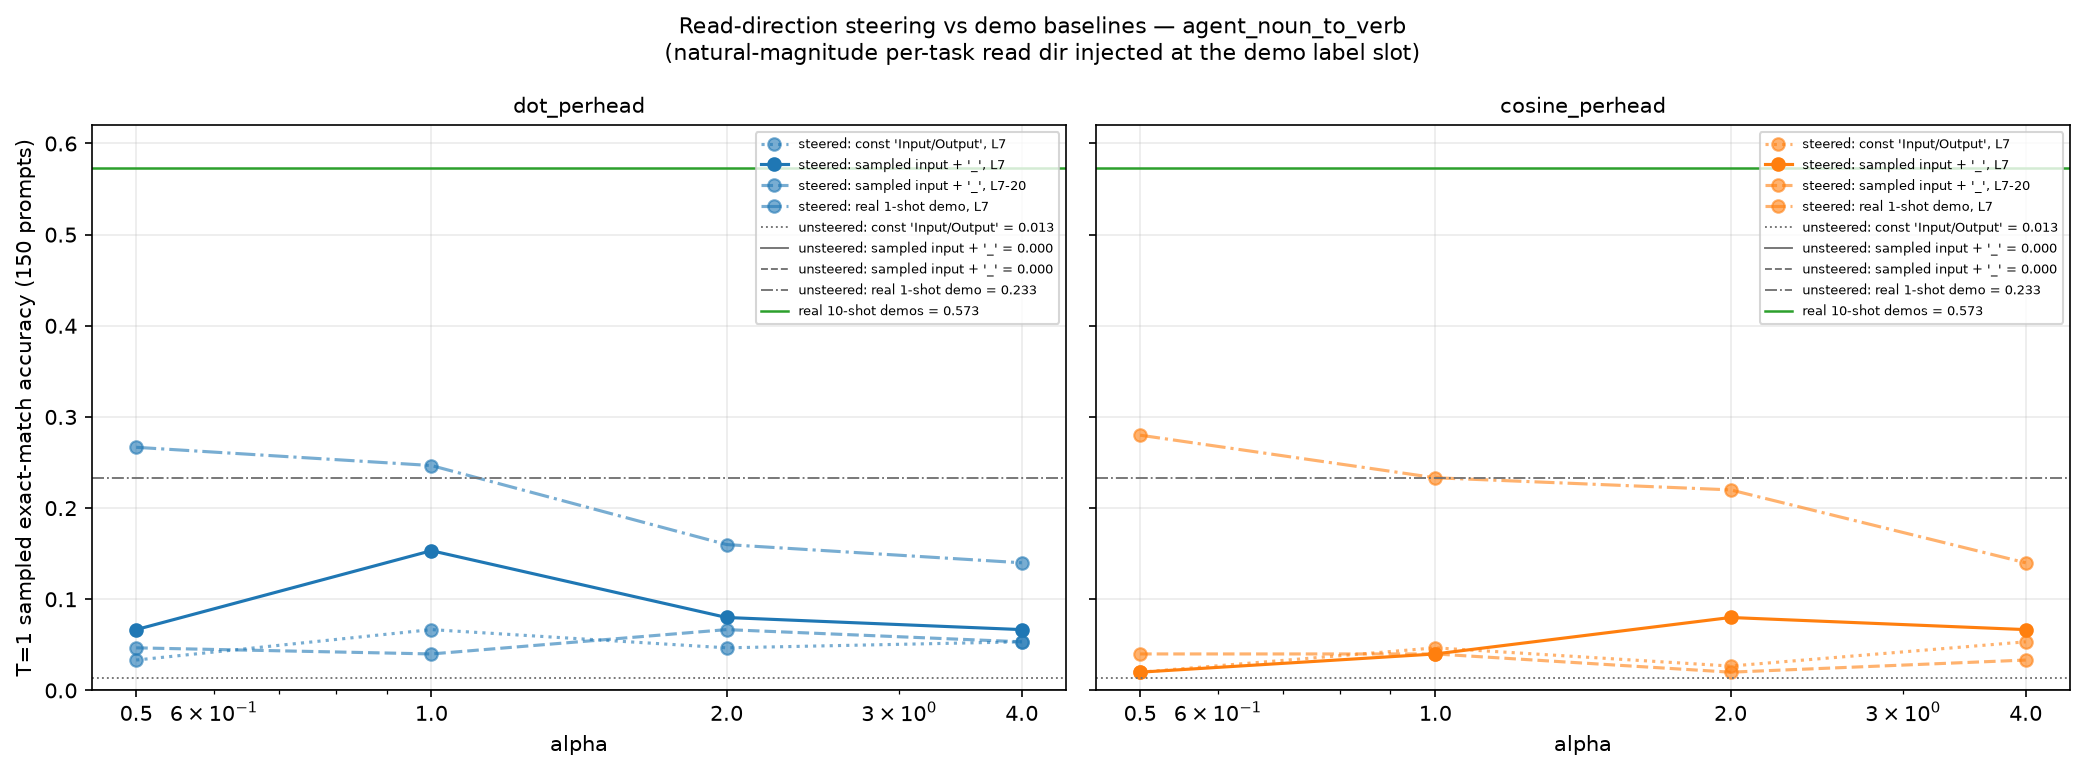
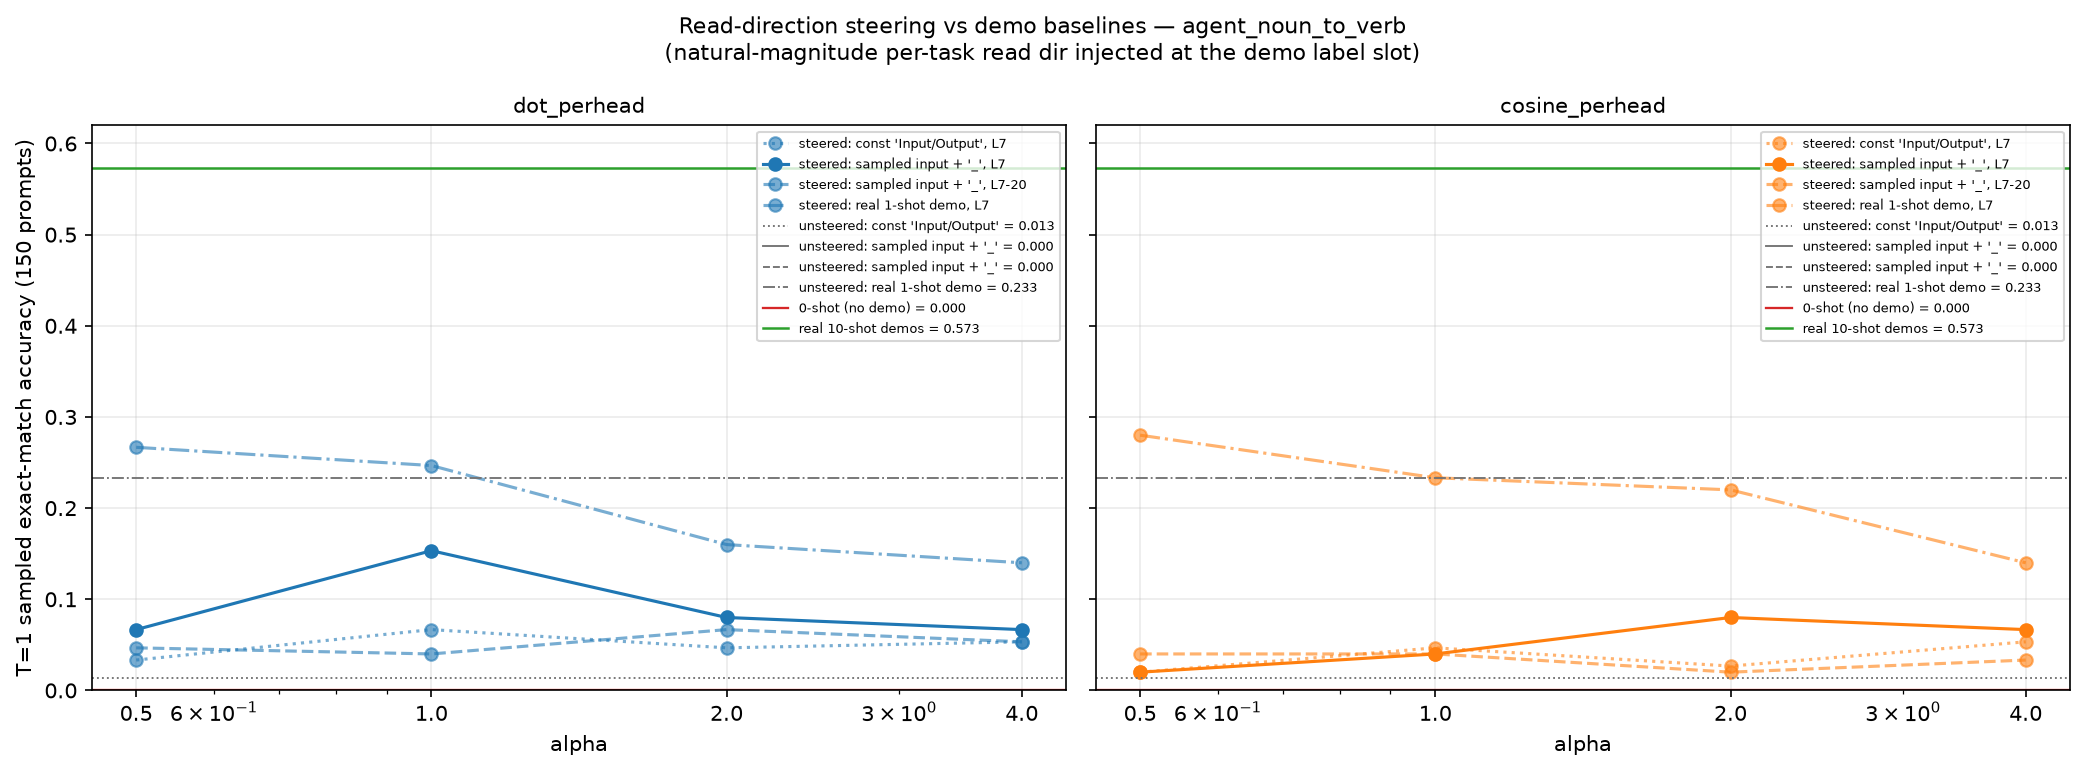
Add 0-shot baseline to the steering plots (69-task sweep + alpha-sweep figure)

Changed region(s): [[0.8417, 0.1868, 0.9976, 0.4358], [0.3429, 0.1868, 0.53, 0.4358]]

diff --git a/src/eval_scripts/plot_steering_alpha_sweep.py b/src/eval_scripts/plot_steering_alpha_sweep.py
@@ -1,0 +1,86 @@
+#!/usr/bin/env python
+"""Alpha-sweep figure for one task's read-direction steering variants (agent_noun_to_verb).
+
+Overlays the scaffold / injection-site variants produced by steer_read_dir_1shot.py and the
+demo baselines (0-shot, blank-'_' scaffold, real 1-shot, real 10-shot from the pc50 run).
+
+Outputs in results/69_task_run/Read_direction_geometry/steering/:
+  steering_1shot_<task>.png, steering_1shot_<task>.csv
+"""
+import csv
+import json
+import sys
+from pathlib import Path
+
+import matplotlib
+matplotlib.use("Agg")
+import matplotlib.pyplot as plt
+
+_BOOT = Path(__file__).resolve().parents[2]
+for p in (_BOOT, _BOOT / "src"):
+    if str(p) not in sys.path:
+        sys.path.insert(0, str(p))
+from src.utils.paths import ARTIFACTS_ROOT, TASK69_RUN_DIR  # noqa: E402
+
+AR = ARTIFACTS_ROOT / "69_task_run" / "read_dir_steering_1shot"
+OUT = TASK69_RUN_DIR / "Read_direction_geometry" / "steering"
+TASK = "agent_noun_to_verb"
+ALPHAS = (0.5, 1.0, 2.0, 4.0)
+TENSHOT = 0.5733  # unablated baseline for this task, results/69_task_run/pc50_ablation
+
+
+def main():
+    runs = [
+        ("const 'Input/Output', L7", f"{TASK}.json", ":"),
+        ("sampled input + '_', L7", f"{TASK}__sampled_underscore.json", "-"),
+        ("sampled input + '_', L7-20", f"{TASK}__sampled_underscore__L7-20.json", "--"),
+        ("real 1-shot demo, L7", f"{TASK}__real_1shot.json", "-."),
+    ]
+    data = [(lbl, json.load(open(AR / f)), ls) for lbl, f, ls in runs]
+    zs = json.load(open(AR / f"{TASK}__zero_shot.json"))["conditions"]["baseline"]["acc"]
+
+    fig, axes = plt.subplots(1, 2, figsize=(14, 5.2), dpi=150, sharey=True)
+    for ax, fam, col in ((axes[0], "dot_perhead", "tab:blue"),
+                         (axes[1], "cosine_perhead", "tab:orange")):
+        for lbl, d, ls in data:
+            ys = [d["conditions"][f"{fam}_a{a}"]["acc"] for a in ALPHAS]
+            ax.plot(ALPHAS, ys, "o" + ls, color=col, alpha=1.0 if ls == "-" else 0.6,
+                    label=f"steered: {lbl}")
+        for lbl, d, ls in data:
+            ax.axhline(d["conditions"]["baseline"]["acc"], color="0.45", ls=ls, lw=0.9,
+                       label=f"unsteered: {lbl.split(',')[0]} = "
+                             f"{d['conditions']['baseline']['acc']:.3f}")
+        ax.axhline(zs, color="tab:red", ls="-", lw=1.1, label=f"0-shot (no demo) = {zs:.3f}")
+        ax.axhline(TENSHOT, color="tab:green", ls="-", lw=1.2,
+                   label=f"real 10-shot demos = {TENSHOT:.3f}")
+        ax.set_xscale("log")
+        ax.set_xticks(ALPHAS, [str(a) for a in ALPHAS])
+        ax.set_xlabel("alpha")
+        ax.set_title(fam, fontsize=10)
+        ax.grid(alpha=0.25)
+        ax.legend(fontsize=6.2, loc="upper right")
+    axes[0].set_ylabel("T=1 sampled exact-match accuracy (150 prompts)")
+    axes[0].set_ylim(0, 0.62)
+    fig.suptitle(f"Read-direction steering vs demo baselines — {TASK}\n"
+                 "(natural-magnitude per-task read dir injected at the demo label slot)",
+                 fontsize=10.5)
+    fig.tight_layout()
+    OUT.mkdir(parents=True, exist_ok=True)
+    fig.savefig(OUT / f"steering_1shot_{TASK}.png", bbox_inches="tight")
+
+    rows = [["variant", "condition", "acc"]]
+    for lbl, d, _ in data:
+        for c, v in d["conditions"].items():
+            rows.append([lbl, c, v["acc"]])
+    rows.append(["reference", "zero_shot_unsteered", zs])
+    rows.append(["reference", "real_10shot_unsteered", TENSHOT])
+    with open(OUT / f"steering_1shot_{TASK}.csv", "w", newline="") as f:
+        csv.writer(f).writerows(rows)
+    print(f"0-shot {zs:.3f} | " + " | ".join(
+        f"{lbl.split(',')[0]} base {d['conditions']['baseline']['acc']:.3f}"
+        for lbl, d, _ in data))
+    print(f"wrote {OUT}")
+
+
+if __name__ == "__main__":
+    main()

diff --git a/src/eval_scripts/plot_steering_by_task.py b/src/eval_scripts/plot_steering_by_task.py
@@ -3,6 +3,7 @@
 
 Reads artifacts/69_task_run/read_dir_steering_1shot/<task>__{sampled_underscore,real_1shot}
 .json for all 69 tasks and plots, per task (sorted by the blank-slot steered accuracy):
+  - 0-shot (no demo at all): unsteered baseline (the format-free floor)
   - blank-'_' scaffold: unsteered baseline vs BEST steered alpha (dot_perhead family)
   - real 1-shot demo: unsteered baseline (the "one real demo" reference)
 Held-out tasks marked with * in the tick label.
@@ -42,7 +43,9 @@ def main():
     for t in tasks:
         us = json.load(open(AR / f"{t}__sampled_underscore.json"))
         r1 = json.load(open(AR / f"{t}__real_1shot.json"))
+        zs = json.load(open(AR / f"{t}__zero_shot.json"))
         rec = {"task": t, "group": group[t],
+               "zeroshot_baseline": zs["conditions"]["baseline"]["acc"],
                "blank_baseline": us["conditions"]["baseline"]["acc"],
                "real1shot_baseline": r1["conditions"]["baseline"]["acc"]}
         for fam in FAMILIES:
@@ -65,13 +68,15 @@ def main():
     rows.sort(key=lambda r: r["blank_dot_perhead_best"])
     labels = [(r["task"] + (" *" if r["group"] == "heldout" else "")) for r in rows]
     x = np.arange(len(rows))
-    w = 0.27
-    fig, ax = plt.subplots(figsize=(max(14, 0.30 * len(rows)), 7.2), dpi=150)
-    ax.bar(x - w, [r["blank_baseline"] for r in rows], w, color="0.65",
+    w = 0.21
+    fig, ax = plt.subplots(figsize=(max(14, 0.32 * len(rows)), 7.2), dpi=150)
+    ax.bar(x - 1.5 * w, [r["zeroshot_baseline"] for r in rows], w, color="0.35",
+           label="0-shot (no demo), unsteered")
+    ax.bar(x - 0.5 * w, [r["blank_baseline"] for r in rows], w, color="0.72",
            label="blank '_' scaffold, unsteered")
-    ax.bar(x, [r["blank_dot_perhead_best"] for r in rows], w, color="tab:blue",
+    ax.bar(x + 0.5 * w, [r["blank_dot_perhead_best"] for r in rows], w, color="tab:blue",
            label="blank '_' scaffold, steered (best alpha, dot_perhead)")
-    ax.bar(x + w, [r["real1shot_baseline"] for r in rows], w, color="tab:green",
+    ax.bar(x + 1.5 * w, [r["real1shot_baseline"] for r in rows], w, color="tab:green",
            label="real 1-shot demo, unsteered")
     ax.set_xticks(x, labels, rotation=90, fontsize=6.2)
     ax.set_ylabel("T=1 sampled exact-match accuracy (150 prompts)")
@@ -86,8 +91,10 @@ def main():
     b = np.array([r["blank_baseline"] for r in rows])
     s = np.array([r["blank_dot_perhead_best"] for r in rows])
     d = np.array([r["real1shot_baseline"] for r in rows])
-    print(f"blank unsteered mean {b.mean():.3f} | steered mean {s.mean():.3f} | "
-          f"real 1-shot mean {d.mean():.3f}")
+    z = np.array([r["zeroshot_baseline"] for r in rows])
+    print(f"0-shot mean {z.mean():.3f} | blank unsteered mean {b.mean():.3f} | "
+          f"steered mean {s.mean():.3f} | real 1-shot mean {d.mean():.3f}")
+    print(f"steered > 0-shot on {(s > z).sum()}/{len(rows)} tasks")
     print(f"steered > blank baseline on {(s > b).sum()}/{len(rows)} tasks; "
           f"steered >= real 1-shot on {(s >= d).sum()}/{len(rows)}")
     frac = np.divide(s, d, out=np.full_like(s, np.nan), where=d > 0)

diff --git a/src/sandbox/ext_steerability/steer_read_dir_1shot.py b/src/sandbox/ext_steerability/steer_read_dir_1shot.py
@@ -51,7 +51,8 @@ def parse_args():
                                 formatter_class=argparse.RawDescriptionHelpFormatter)
     p.add_argument("--task", type=str, default=None)
     p.add_argument("--scaffold_mode",
-                   choices=("const", "sampled_underscore", "real_1shot"), default="const")
+                   choices=("const", "sampled_underscore", "real_1shot", "zero_shot"),
+                   default="const")
     p.add_argument("--layers", type=str, default="7",
                    help="injection layers: single '7' or inclusive range '7-20'")
     p.add_argument("--prompts_root", type=Path,
@@ -116,7 +117,11 @@ def run_task(args, model, tok, inj, task, group):
         q = str(rec["query"]["input"])
         gold = rec["query"]["output"]
         gold = str(gold[0] if isinstance(gold, list) else gold).strip()
-        if args.scaffold_mode == "real_1shot":
+        if args.scaffold_mode == "zero_shot":
+            # reference condition only: no demo at all, so no label slot to inject into
+            pre = None
+            prompt = f"Q: {q}\nA:"
+        elif args.scaffold_mode == "real_1shot":
             demo_inp = str(rec["demos"][0]["input"])
             demo_out = str(rec["demos"][0]["output"])
             assert demo_inp != q
@@ -133,7 +138,9 @@ def run_task(args, model, tok, inj, task, group):
         ids = tok(prompt).input_ids
         # the scaffold's "\n\n" retokenizes in context (628 -> 198,198): anchor on the
         # injection token directly, then sanity-check its position.
-        if args.scaffold_mode == "real_1shot":
+        if args.scaffold_mode == "zero_shot":
+            inj_idx = 0                         # unused: baseline-only mode
+        elif args.scaffold_mode == "real_1shot":
             inj_idx = len(tok(pre).input_ids)   # first token of the real demo label
         else:
             inj_idx = ids.index(anchor_id)
@@ -153,7 +160,8 @@ def run_task(args, model, tok, inj, task, group):
         print(f"{fam}: |v_task| = {v.norm():.2f}", flush=True)
 
     conds = [("baseline", None, 0.0)]
-    conds += [(f"{fam}_a{a}", fam, a) for fam in FAMILIES for a in ALPHAS]
+    if args.scaffold_mode != "zero_shot":
+        conds += [(f"{fam}_a{a}", fam, a) for fam in FAMILIES for a in ALPHAS]
     res = {"task": task, "group": group, "layers": inj.layers,
            "scaffold_mode": args.scaffold_mode, "n_prompts": len(items),
            "v_norms": {f: float(vecs[f].norm()) for f in FAMILIES}, "conditions": {}}

diff --git a/WORKLOG.md b/WORKLOG.md
@@ -5819,3 +5819,21 @@ results/69_task_run/Read_direction_geometry/steering/steering_by_task.{png,csv}.
   mid-pack, i.e. not unrepresentative.
 
 **Next:** user call. **Blockers:** none; all pods terminated.
+
+## 2026-08-17 — 0-shot baseline added to the steering plots
+
+**Status:** done. steer_read_dir_1shot.py gained --scaffold_mode zero_shot (bare
+"Q: {q}\nA:", baseline only — no demo label slot to inject into); swept all 69 tasks on 4
+pods (terminated). Plot code split: plot_steering_by_task.py (per-task bars, now 4 bars:
+0-shot / blank-'_' unsteered / blank-'_' steered / real 1-shot) and the new
+plot_steering_alpha_sweep.py (agent_noun_to_verb alpha curves, now with 0-shot and 10-shot
+reference lines) — replaces the ad-hoc tmp summary scripts.
+
+**0-shot numbers:** mean 0.002 over the 69 tasks (agent_noun_to_verb exactly 0.000), i.e.
+indistinguishable from the blank-'_' scaffold floor (0.001) — GPT-J does essentially none
+of these tasks without a demo, so the whole steering ladder sits on a true zero floor.
+Steering beats 0-shot on 62/69 tasks (same count as beats the blank scaffold).
+Full ladder (means): 0-shot 0.002 < blank scaffold 0.001~ < steered 0.090 <
+real 1-shot 0.208 < real 10-shot 0.573 (10-shot from pc50_ablation baselines).
+
+**Next:** user call. **Blockers:** none; all pods terminated.
